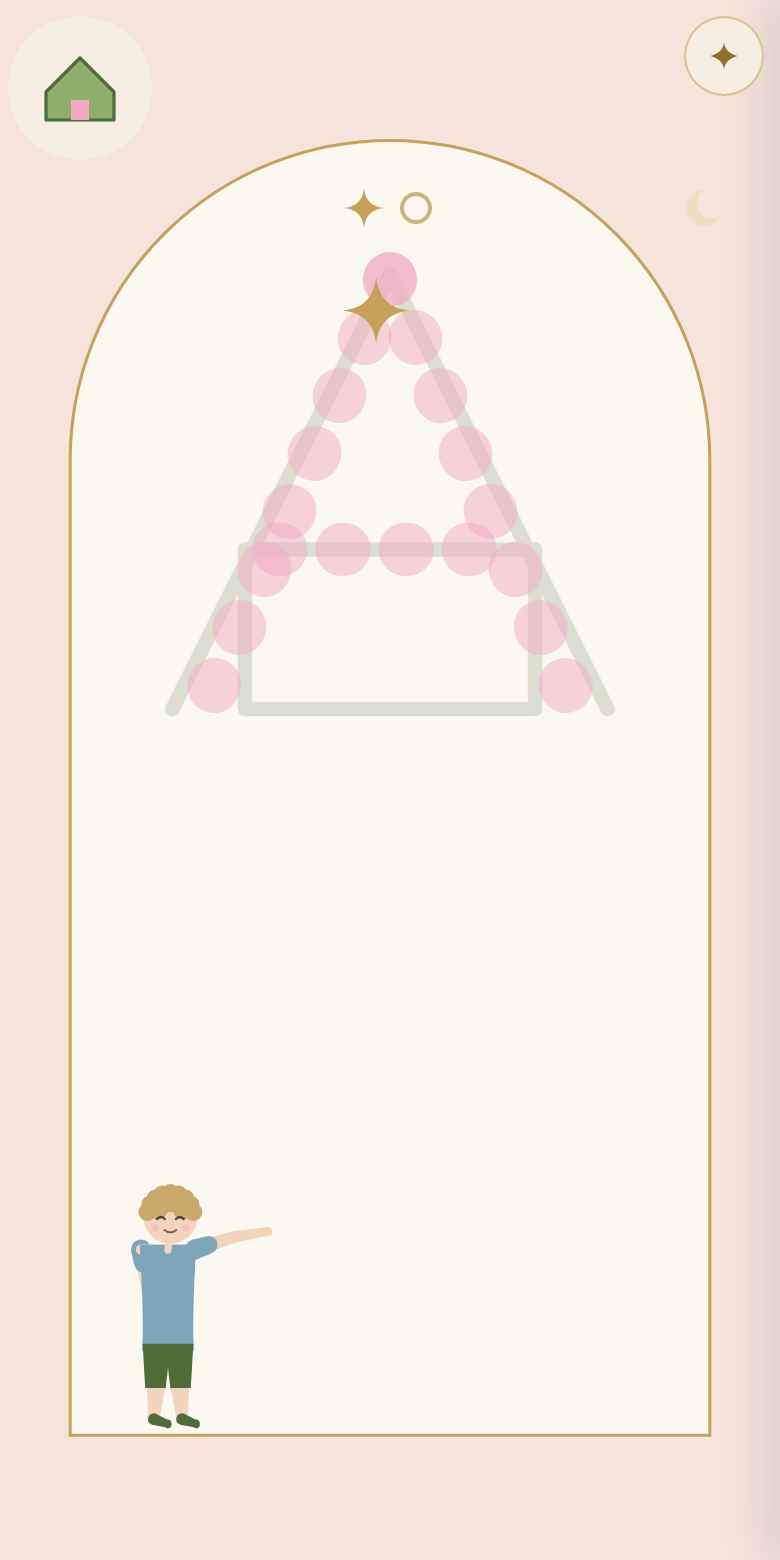
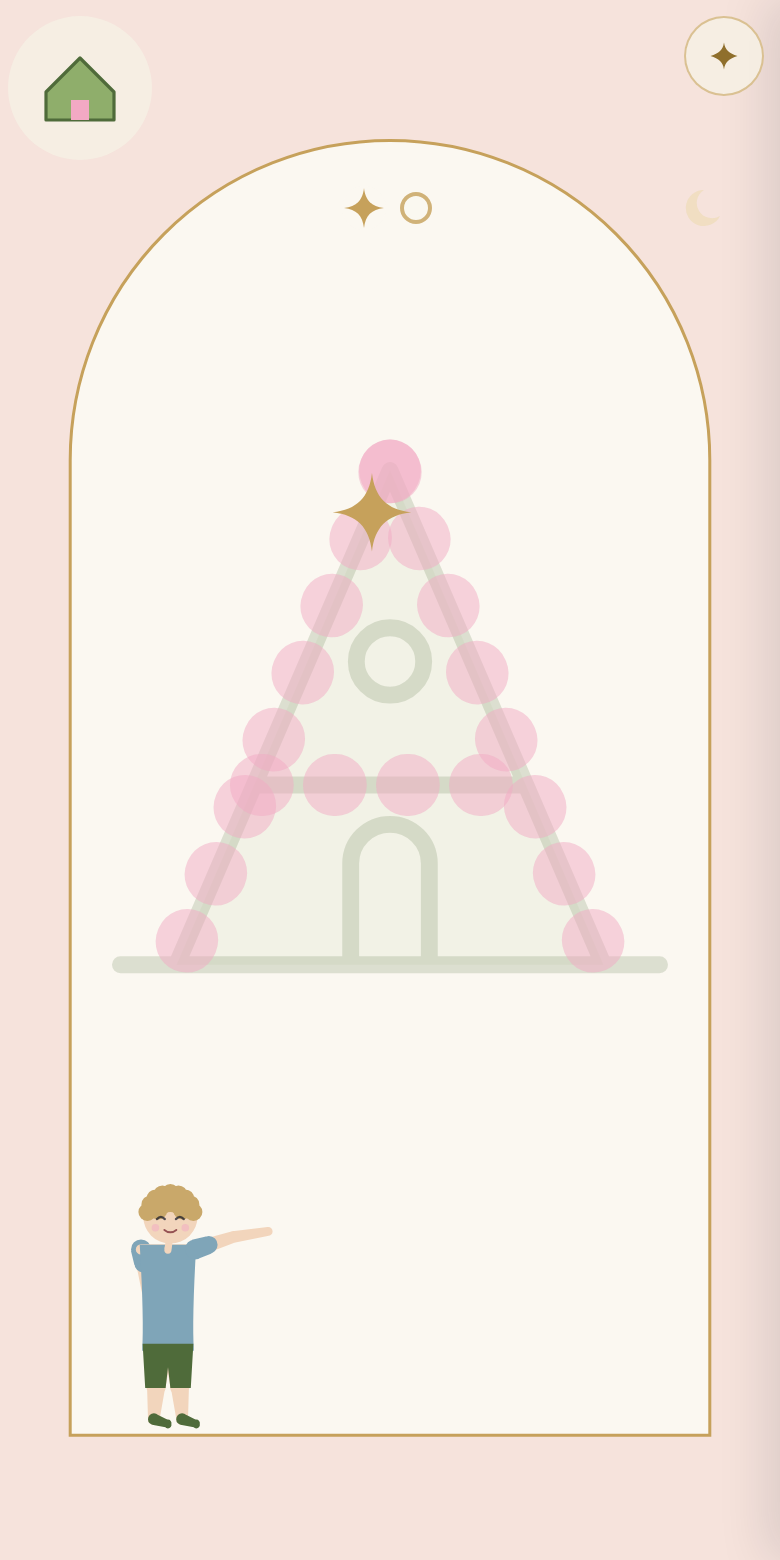
O A do caderno volta a ser a casa verde: o desenho segue as pernas da letra e a letra fica no meio da página (#32)
O telhado era mais largo que o A e tinha um retângulo cruzando as pernas;
agora a casinha em A usa os mesmos traços da letra, com janelinha, porta e
chão. A caixa da letra cresce e fica centrada no arco, sem meia página vazia.

Claude-Session: https://claude.ai/code/session_012DyaeCvp4SRT4w5HxXLw8S

Changed region(s): [[0.1538, 0.1538, 0.8615, 0.6462]]

diff --git a/src/telas/caderno.ts b/src/telas/caderno.ts
@@ -79,10 +79,10 @@ export function telaCaderno(): Tela {
   let W = 390;
   let H = 780;
   let dpr = 1;
-  /* a caixa da letra: metade da tela, centrada, acima do Theo */
+  /* a caixa da letra: centrada no meio da página em arco, acima do Theo */
   const caixa = () => {
-    const lado = Math.min(W * 0.62, H * 0.42);
-    return { x: (W - lado) / 2, y: H * 0.16, lado };
+    const lado = Math.min(W * 0.72, H * 0.5);
+    return { x: (W - lado) / 2, y: H * 0.46 - lado / 2, lado };
   };
   const redimensionar = () => {
     const r = canvas.getBoundingClientRect();
@@ -130,14 +130,28 @@ export function telaCaderno(): Tela {
     ctx.beginPath();
     switch (letra.imagem) {
       case 'telhado':
-        ctx.moveTo(0.05, 0.95);
-        ctx.lineTo(0.5, 0.05);
-        ctx.lineTo(0.95, 0.95);
-        ctx.moveTo(0.2, 0.62);
-        ctx.lineTo(0.8, 0.62);
-        ctx.lineTo(0.8, 0.95);
-        ctx.lineTo(0.2, 0.95);
+        /* a casa verde em A: o telhado desce até o chão pelas mesmas pernas da letra */
+        ctx.moveTo(0.12, 0.94);
+        ctx.lineTo(0.5, 0.06);
+        ctx.lineTo(0.88, 0.94);
         ctx.closePath();
+        ctx.save();
+        ctx.globalAlpha *= 0.45;
+        ctx.fillStyle = '#8FAE6B';
+        ctx.fill();
+        ctx.restore();
+        ctx.moveTo(0.27, 0.62);
+        ctx.lineTo(0.73, 0.62);
+        /* a janelinha redonda no sótão e a porta embaixo */
+        ctx.moveTo(0.56, 0.4);
+        ctx.arc(0.5, 0.4, 0.06, 0, Math.PI * 2);
+        ctx.moveTo(0.43, 0.94);
+        ctx.lineTo(0.43, 0.76);
+        ctx.arc(0.5, 0.76, 0.07, Math.PI, 0);
+        ctx.lineTo(0.57, 0.94);
+        /* o chão */
+        ctx.moveTo(0.02, 0.94);
+        ctx.lineTo(0.98, 0.94);
         break;
       case 'estante':
         ctx.rect(0.22, 0.06, 0.6, 0.88);
